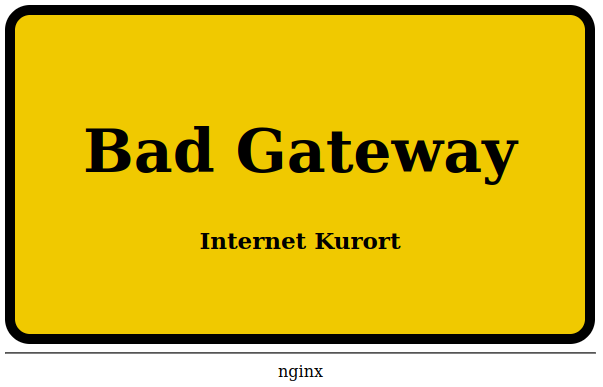
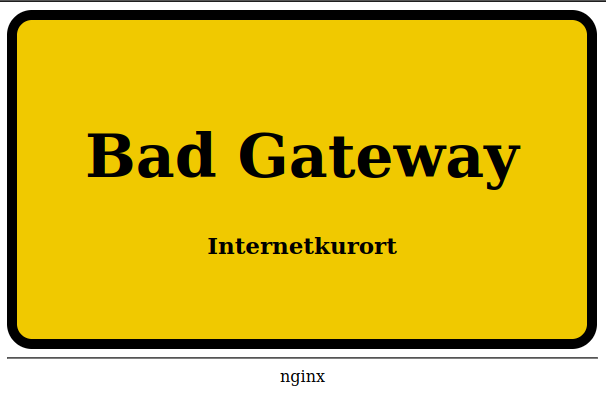
Internet Kurort -> Internetkurort

diff --git a/502.html b/502.html
@@ -15,7 +15,7 @@
     <div style="background-color: #F0C900; border: 10px solid #000000; border-radius: 25px; padding: 60px; width: 450px">
       <center>
         <h1>Bad Gateway</h1>
-        <h2>Internet Kurort</h2>
+        <h2>Internetkurort</h2>
       </center>
     </div>
   </body>
